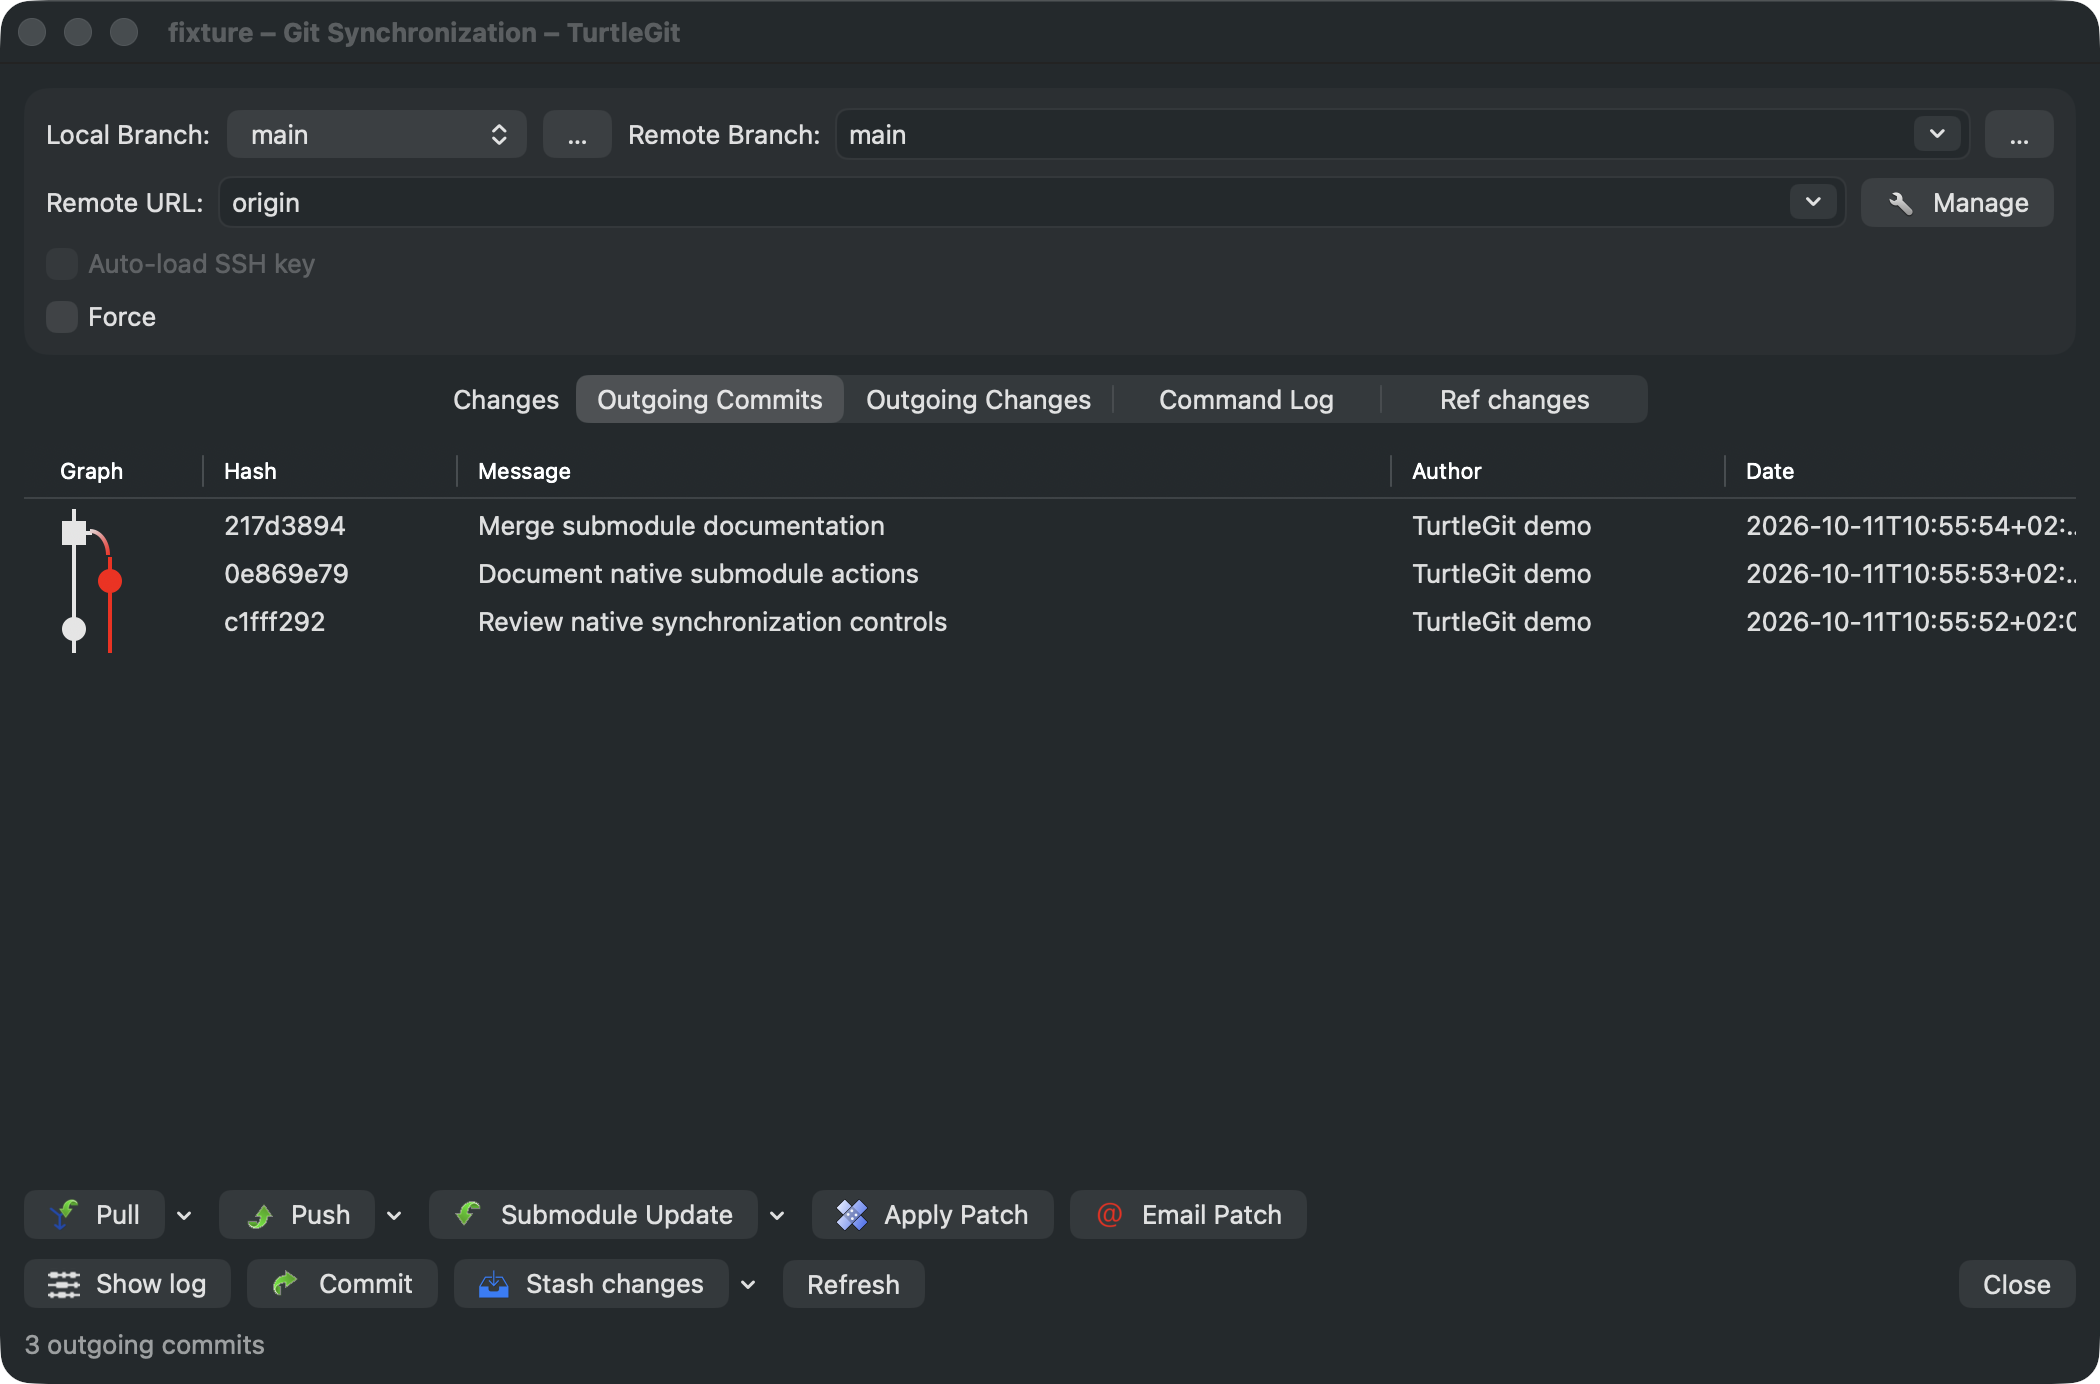
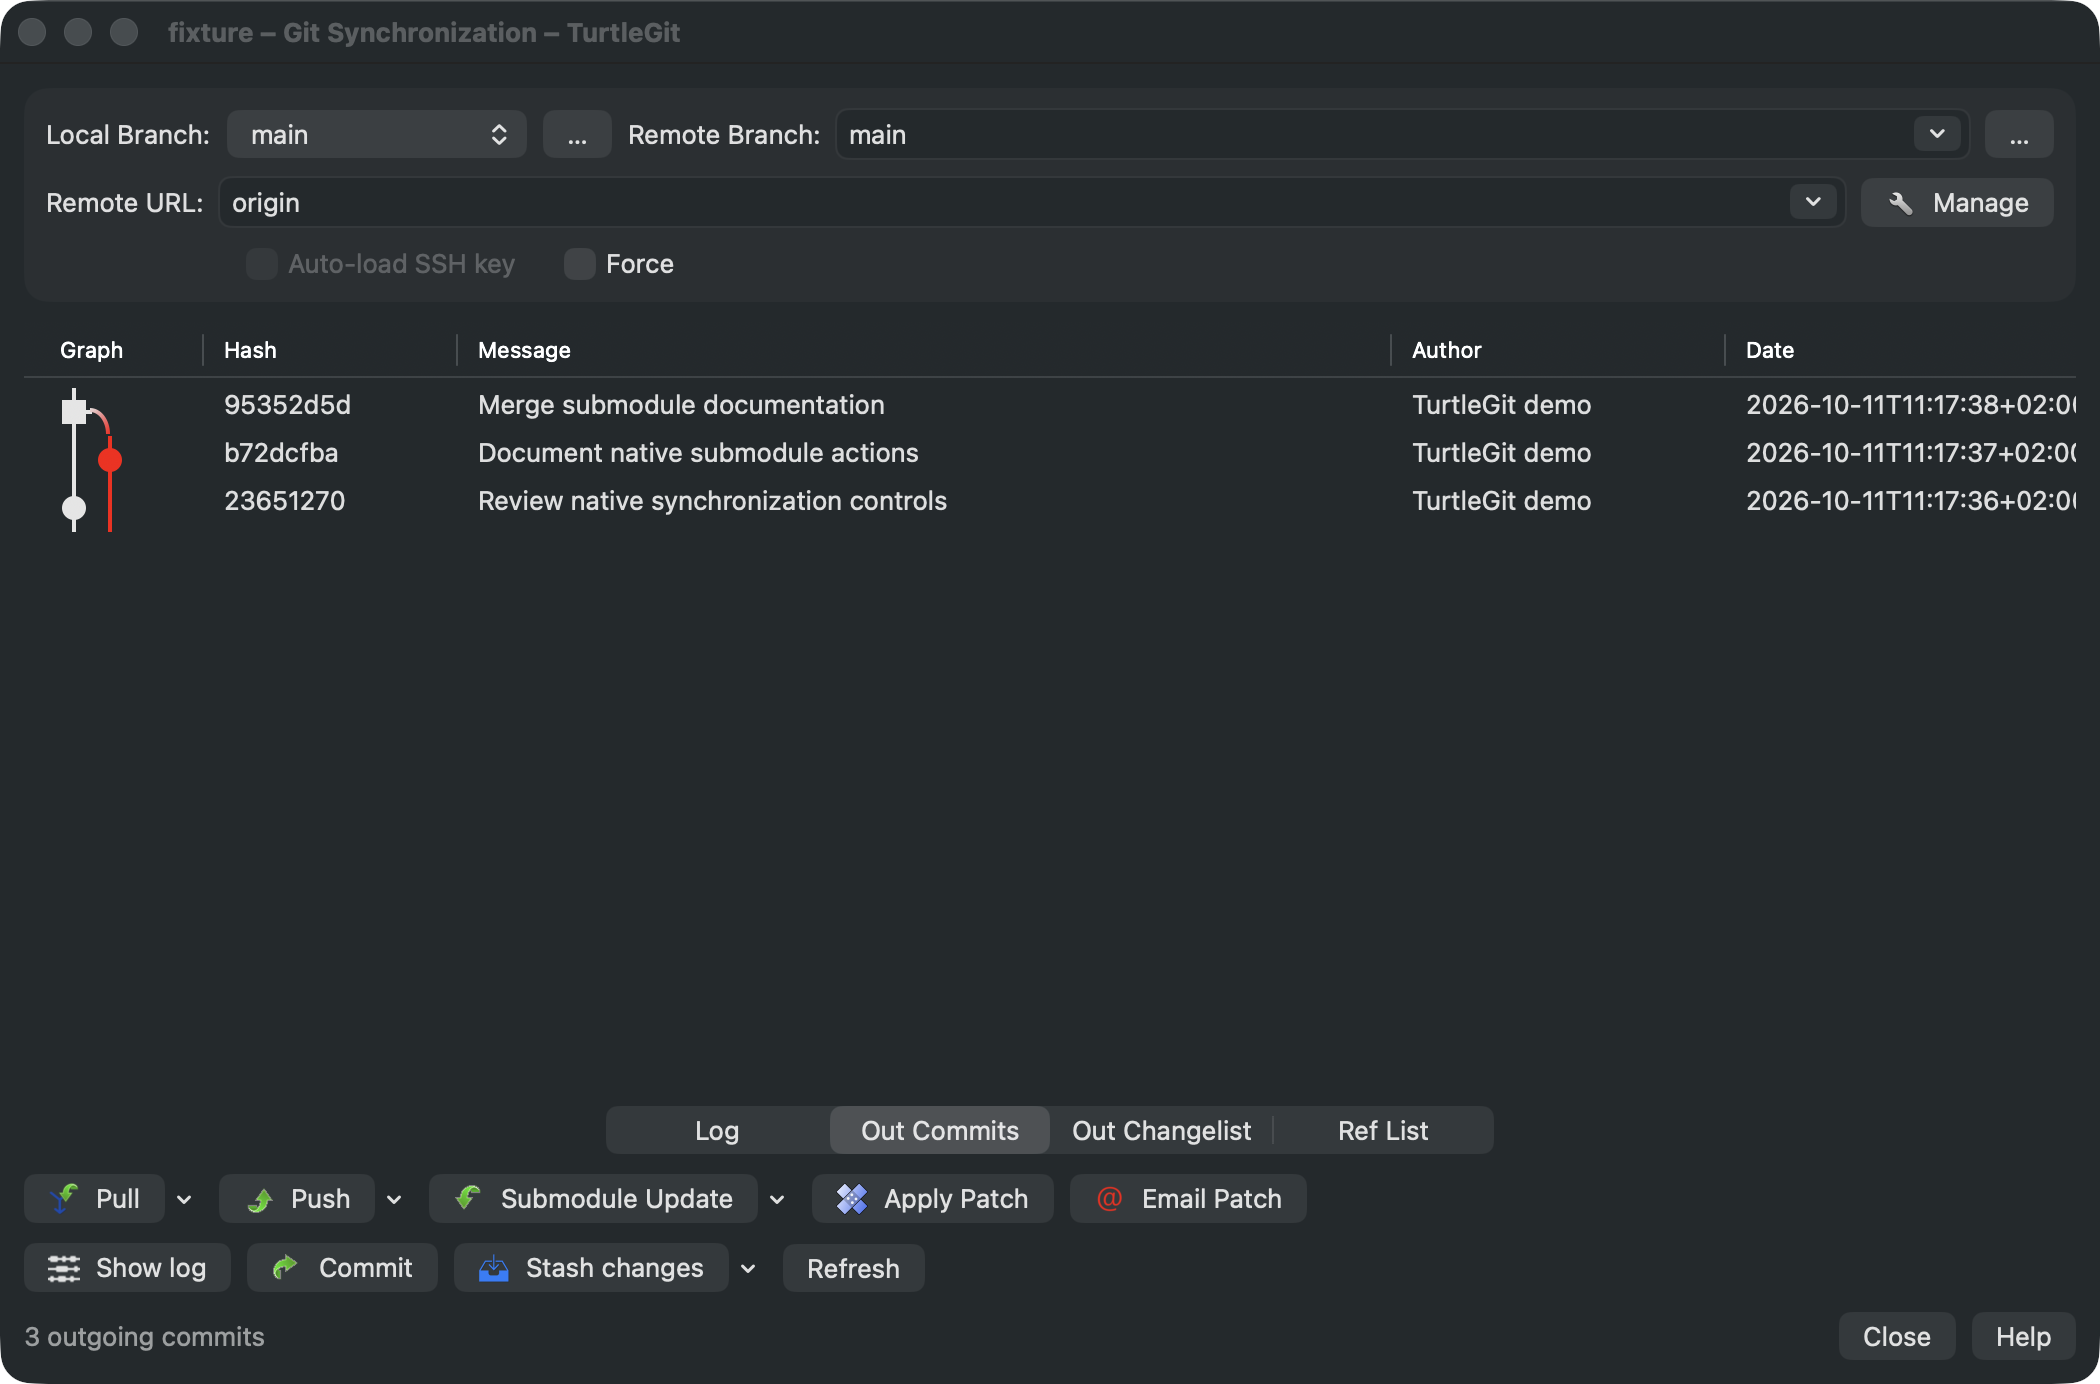
Record Sync source layout verification and refresh site captures

diff --git a/docs/site/index.html b/docs/site/index.html
@@ -29,9 +29,9 @@
     <figure><a href="assets/merge-abort-reset-failed-light.png"><img src="assets/merge-abort-reset-failed-light.png" alt="Native light Reset progress showing a real Git index-lock diagnostic, red Git exit-code status, original green Retry icon and Close." width="1520" height="840" loading="lazy"></a><figcaption>A real Git lock failure deliberately produced in the disposable sample repository. Native keyboard routing, ownership, cancellation and retries pass with system and packaged Git. <a href="@@REPOSITORY_URL@@/blob/main/docs/MERGE-PARITY.md">Verification and remaining work →</a></figcaption></figure>
     <figure><a href="assets/merge-abort-reset-failed-dark.png"><img src="assets/merge-abort-reset-failed-dark.png" alt="The same actual Git reset failure in dark appearance with readable diagnostics and colored status and icon." width="1520" height="840" loading="lazy"></a><figcaption>Dark Reset progress with styled diagnostics. Animation, other progress options, factory entry and signed acceptance remain under review.</figcaption></figure>
     <h2>Git Synchronization</h2>
-    <p>Synchronization now has native outgoing and incoming history with the graph before the list, changed-file comparisons, reference changes and bounded command output. Pull owns separate branch-switch progress; Fetch &amp; Rebase offers the original Yes/No and Merge/Rebase/Abort choices. Hold Shift when choosing Pull or Fetch to open their full native options. Ordinary Pull/Fetch refreshes results on return. Full-options Rebase now uses an owned handoff before refreshing; its broader completion actions remain under review. Compare Tags now has a dedicated six-column tab with sorting, original-icon menus, confirmed tag deletion and owned loading/command progress. Push, Push tags and Push notes now have native split actions; Shift+Push opens owned full options and progress. Submodule Update, Init and Sync have source command variants; Shift opens their standalone dialogs. Stash changes, Pop and Apply now have a split button; failed restores show actual conflicts. Shift+Stash changes opens full Save options. Manage beside Remote URL opens native Remote settings; closing settings refreshes remote choices and outgoing results. The branch browse buttons open scoped native reference pickers: Local Branch reloads tracking defaults, while Remote Branch fills both remote and branch. Apply Patch opens the native serial importer as an owned sheet; successful OK refreshes incoming and outgoing results without applying commits twice. Email Patch exports the selected outgoing range directly to the repository and opens owned native Send Mail options and progress. Project hooks, remaining controls, visual matching and signed acceptance are still in progress. <a href="@@REPOSITORY_URL@@/blob/main/docs/SYNCHRONIZATION-PARITY.md">Source comparison and verification →</a></p>
-    <figure><a href="assets/git-synchronization-light.png"><img src="assets/git-synchronization-light.png" alt="Native light Git Synchronization window with branch and remote fields, graph before outgoing commits, original command icons, branch browse buttons, Manage beside Remote URL, Apply Patch, Email Patch and Pull/Push/Submodule split buttons." width="2100" height="1384" loading="lazy"></a><figcaption>Actual native window, 11 October 2026, from a disposable sample repository. Local/remote branch browse buttons, Manage beside Remote URL, Apply Patch, Email Patch and Pull, Push, Submodule and Stash split actions in two rows, with a compact colored merge graph. Other source controls, columns and full visual parity remain in progress.</figcaption></figure>
-    <figure><a href="assets/git-synchronization-dark.png"><img src="assets/git-synchronization-dark.png" alt="The same native Synchronization window in dark mode, preserving colored Pull, Push and Commit icons." width="2100" height="1384" loading="lazy"></a><figcaption>Dark appearance. Both themes were also inspected at the minimum window size; the metadata table still scrolls horizontally for its later columns.</figcaption></figure>
+    <p>Synchronization now has native outgoing and incoming history with the graph before the list, changed-file comparisons, reference changes and bounded command output. Pull owns separate branch-switch progress; Fetch &amp; Rebase offers the original Yes/No and Merge/Rebase/Abort choices. Hold Shift when choosing Pull or Fetch to open their full native options. Ordinary Pull/Fetch refreshes results on return. Full-options Rebase now uses an owned handoff before refreshing; its broader completion actions remain under review. Compare Tags now has a dedicated six-column tab with sorting, original-icon menus, confirmed tag deletion and owned loading/command progress. Push, Push tags and Push notes now have native split actions; Shift+Push opens owned full options and progress. Submodule Update, Init and Sync have source command variants; Shift opens their standalone dialogs. Stash changes, Pop and Apply now have a split button; failed restores show actual conflicts. Shift+Stash changes opens full Save options. Manage beside Remote URL opens native Remote settings; closing settings refreshes remote choices and outgoing results. The branch browse buttons open scoped native reference pickers: Local Branch reloads tracking defaults, while Remote Branch fills both remote and branch. Apply Patch opens the native serial importer as an owned sheet; successful OK refreshes incoming and outgoing results without applying commits twice. Email Patch exports the selected outgoing range directly to the repository and opens owned native Send Mail options and progress. Result tabs now sit below the grid in the source order with original captions; Force shares the SSH row, and Close/Help sit beside the status footer. Project hooks, remaining columns and menus, visual matching and signed acceptance are still in progress. <a href="@@REPOSITORY_URL@@/blob/main/docs/SYNCHRONIZATION-PARITY.md">Source comparison and verification →</a></p>
+    <figure><a href="assets/git-synchronization-light.png"><img src="assets/git-synchronization-light.png" alt="Native light Git Synchronization window with branch and remote fields, graph before outgoing commits, original command icons, branch browse buttons, Manage beside Remote URL, Apply Patch, Email Patch and Pull/Push/Submodule split buttons." width="2100" height="1384" loading="lazy"></a><figcaption>Actual native window, 11 October 2026, from a disposable sample repository. Local/remote branch browse buttons, Manage beside Remote URL, Apply Patch, Email Patch and Pull, Push, Submodule and Stash split actions in two rows, with a compact colored merge graph. Result tabs below the grid, shared Force/SSH row and status/Close/Help footer follow the source arrangement. Full columns, menus and visual parity remain in progress.</figcaption></figure>
+    <figure><a href="assets/git-synchronization-dark.png"><img src="assets/git-synchronization-dark.png" alt="The same native Synchronization window in dark mode, preserving colored Pull, Push and Commit icons." width="2100" height="1384" loading="lazy"></a><figcaption>Dark appearance. Both themes were also inspected at minimum size with incoming and outgoing tabs visible; the compact source captions fit. The metadata table still scrolls horizontally for its later columns.</figcaption></figure>
     <h2>Choose the Log walk order</h2>
     <p>Click a revision-table column header to open Log commit ordering. Choose Git’s chronological default, topology, committer-date or author-date order; OK saves the choice and refreshes Log while retaining commit selection. Cancel preserves the previous setting. <a href="@@REPOSITORY_URL@@/blob/main/docs/LOG-ORDERING-PARITY.md">Ordering implementation and source audit →</a></p>
     <figure><a href="assets/log-ordering-light.png"><img src="assets/log-ordering-light.png" alt="Native light Log commit ordering dialog with Commit Ordering dropdown, OK and Cancel." width="960" height="200" loading="lazy"></a><figcaption>Actual native content capture from a hidden sheet, 10 October 2026. Header dispatch, four real Git walks, draft cancellation, Return, selection preservation and owned close pass with system and packaged Git. Window chrome is excluded; physical and signed acceptance remain pending.</figcaption></figure>

diff --git a/docs/UI-PARITY.md b/docs/UI-PARITY.md
@@ -45,6 +45,7 @@ preview, accepted-plan execution and recursive submodule batches. Remaining work
 | Repository status | ChangedDlg, IDD_CHANGEDFILES and GitStatusListCtrl | Standalone branch/list/filter/action layout, six columns, native filter and stage/unstage/diff/export checks. Full context menus, persisted options, cancellation and remote checks pending. See STATUS-PARITY.md. |
 | Switch/Checkout | GitSwitchDlg, IDD_GITSWITCH, SwitchCommand and CChooseVersion | Native Branch/Tag/Commit rows and option controls; captured full options route through shared Switch results, source-ordered recovery and cancellation confirmation. Full chooser, physical progress and broader UI QA pending. See SWITCH-PARITY.md. |
 | New Branch/Tag | CreateBranchTagDlg, IDD_NEW_BRANCH_TAG, BranchCommand, TagCommand and CAppUtils | Native name/revision/options/description or message layout; branch creation hands off to shared Switch, then captured description with description-only retry; tag Push and cross-name Continue retain submitted choices. Full choosers, signing UI, physical handoffs and broader QA pending. See BRANCH-TAG-PARITY.md. |
+| Synchronization | SyncDlg, IDD_SYNC and GitSync.png | Native graph-first incoming/outgoing history, file/ref/tag results, owned Pull/Fetch/Rebase/Push/Submodule/Stash/Apply Patch/Email Patch workflows and branch/remote choosers remain partial. Source tab order and captions below results, Force beside SSH and status/Close/Help footer now match the source arrangement; six actual normal/minimum/incoming light/dark captures checked. Full Actions/ref decorations/Bug-ID columns, date formatting, history/context menus, project hooks, progress phases and physical/signed acceptance remain pending. See SYNCHRONIZATION-PARITY.md. |
 | Push | PushDlg, IDD_PUSH, PushCommand and CAppUtils | Native reference/destination/options arrangement; branch/upstream and tag-scoped handoff verified with unchanged index/worktree patches. Basic Manage and cached ref browsers; full choosers/settings, progress, cancellation and authentication pending. See PUSH-PARITY.md. |
 | Fetch | PullFetchDlg, IDD_PULLFETCH, FetchCommand and CAppUtils | Native control arrangement and three-state Tags/Prune; URL branch browse/fetch and configured named-remote fetch verified with unchanged HEAD/index/worktree. Fetch → Rebase plan verified; full settings, progress and broader QA pending. See FETCH-PARITY.md. |
 | Pull | PullFetchDlg, IDD_PULLFETCH, PullCommand and CAppUtils | Shared native remote/options window; fast-forward pull preserves unrelated mixed changes, flag enablement and error → Working Tree verified. Configured Pull → Rebase auto-start verified; progress and full recovery pending. See PULL-PARITY.md. |

diff --git a/docs/SYNCHRONIZATION-PARITY.md b/docs/SYNCHRONIZATION-PARITY.md
@@ -321,8 +321,9 @@ remain unverified. See the
 
 ## Remaining full port
 
-- Complete source arrangement, including tabs below the result grid, Force/SSH
-  placement, Help, status/progress placement and full remote-history saving/deletion.
+- Complete progress-phase arrangement and full remote-history saving/deletion.
+  Tabs below the result grid, shared Force/SSH row and status/Close/Help footer
+  now follow the source layout; full column and interaction parity remain partial.
   Owned branch choosers and Manage are implemented; physical acceptance is pending.
 - Full incoming/conflict/reference/outgoing columns, ref decorations, actions,
   Bug-ID, sorting/context menus and persistence. Inspected captures verify the
@@ -900,3 +901,21 @@ bundle audits, inventory-pin and site checks passed. Actual normal/minimum
 light/dark captures were inspected; both patch buttons fit, and normal captures
 are on the website. See [native checkpoint evidence](qa/synchronization-email-native-2026-10-11.json). Public delivery,
 physical input, signed grants and full dialog certification remain unverified.
+
+## Source layout follow-up, 11 October 2026
+
+The result tabs now sit below the grid, in the source order and with the original
+Log/In Commits/In Changelist/Out Commits/Out Changelist/Ref List captions.
+Conditional Conflicts and Compare tags retain their existing modes. Force shares
+the SSH row, and Close/Cancel and Help now sit beside the status footer. Help
+routes to the official Synchronization manual; physical browser handoff remains
+unverified. Native Refresh remains available.
+
+The final Debug and unsigned universal AppStore builds and both bundle audits
+passed. Six actual normal/minimum/incoming-tab light/dark captures were inspected
+against the pinned upstream screenshot and resources; the compact captions fit.
+Private refs/index/config were preserved, the owned window closed and receiver
+reaped. Normal captures refresh the website. This UI-only follow-up does not claim
+a new full behavioral suite run or complete dialog parity. Source columns, date
+formatting, history, menus, progress phases and signed/physical acceptance remain
+open. See the [verification record](qa/synchronization-layout-order-2026-10-11.json).
